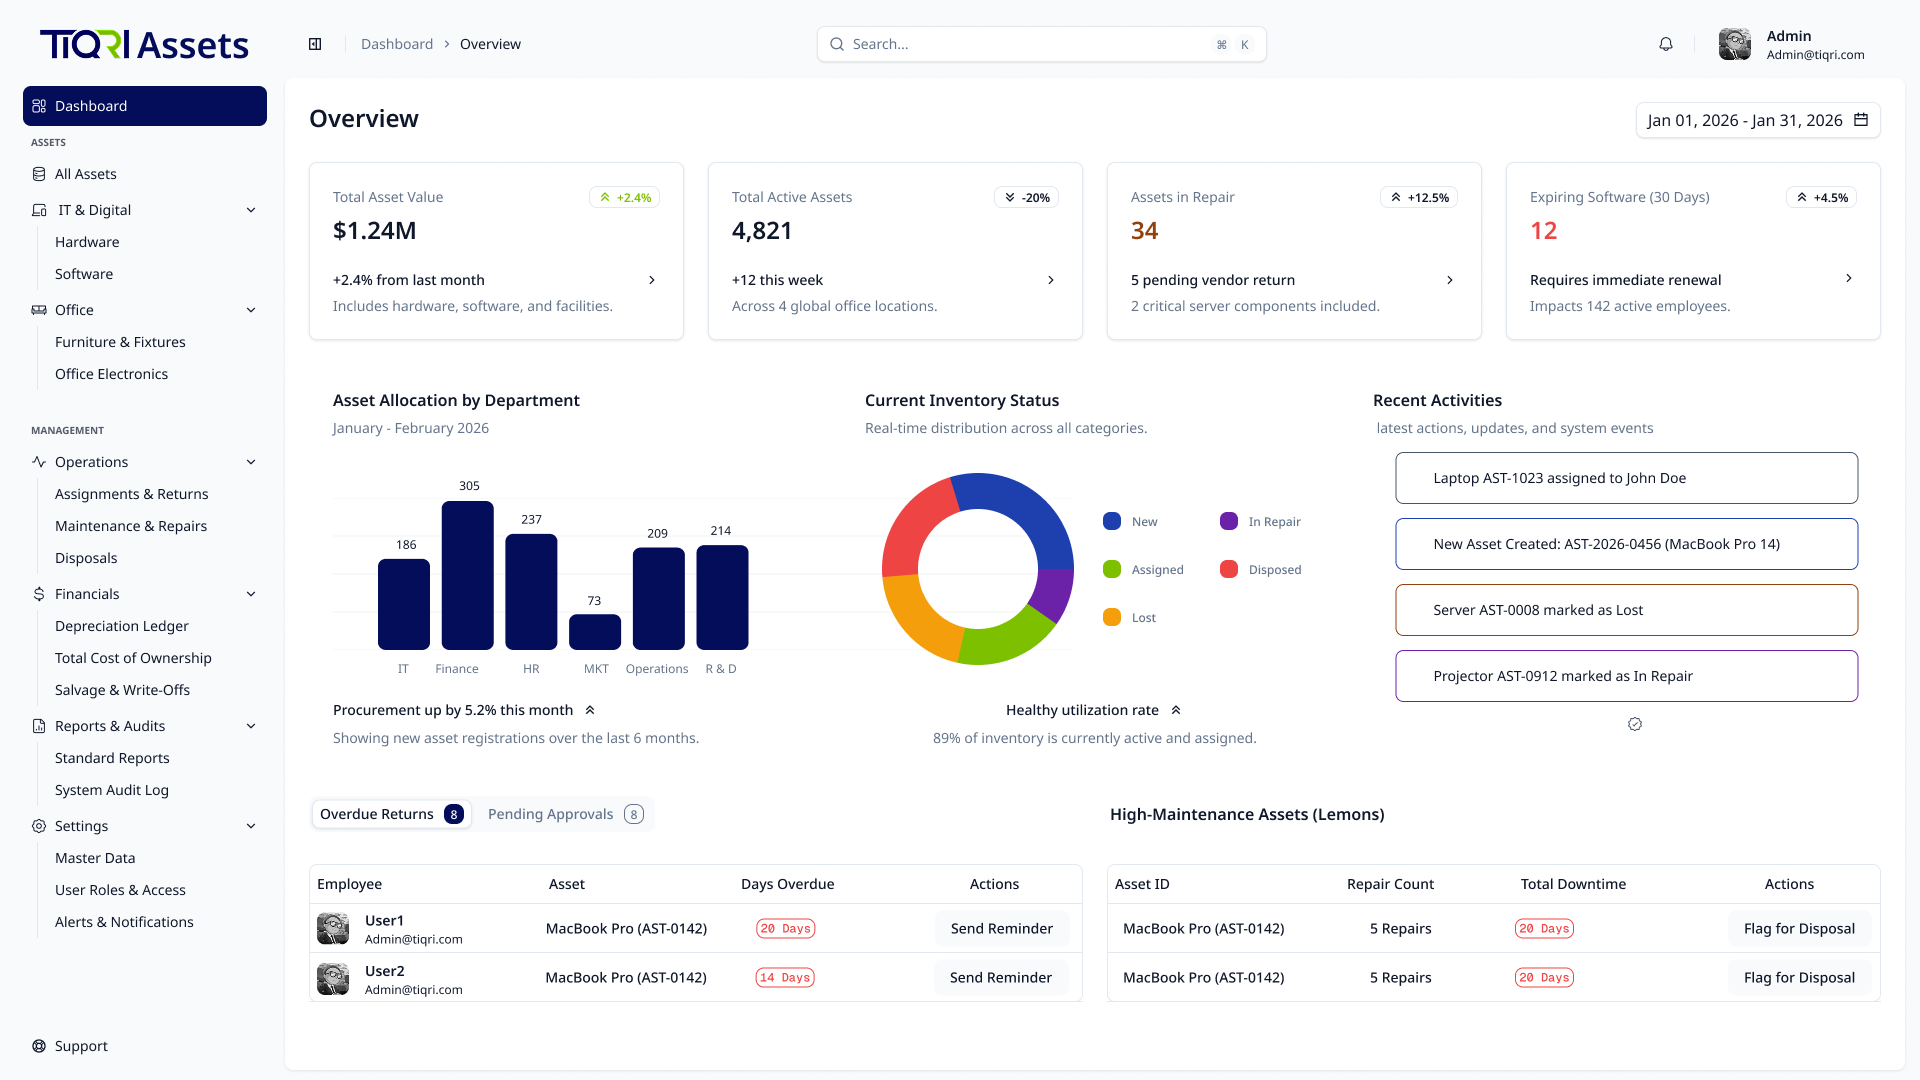
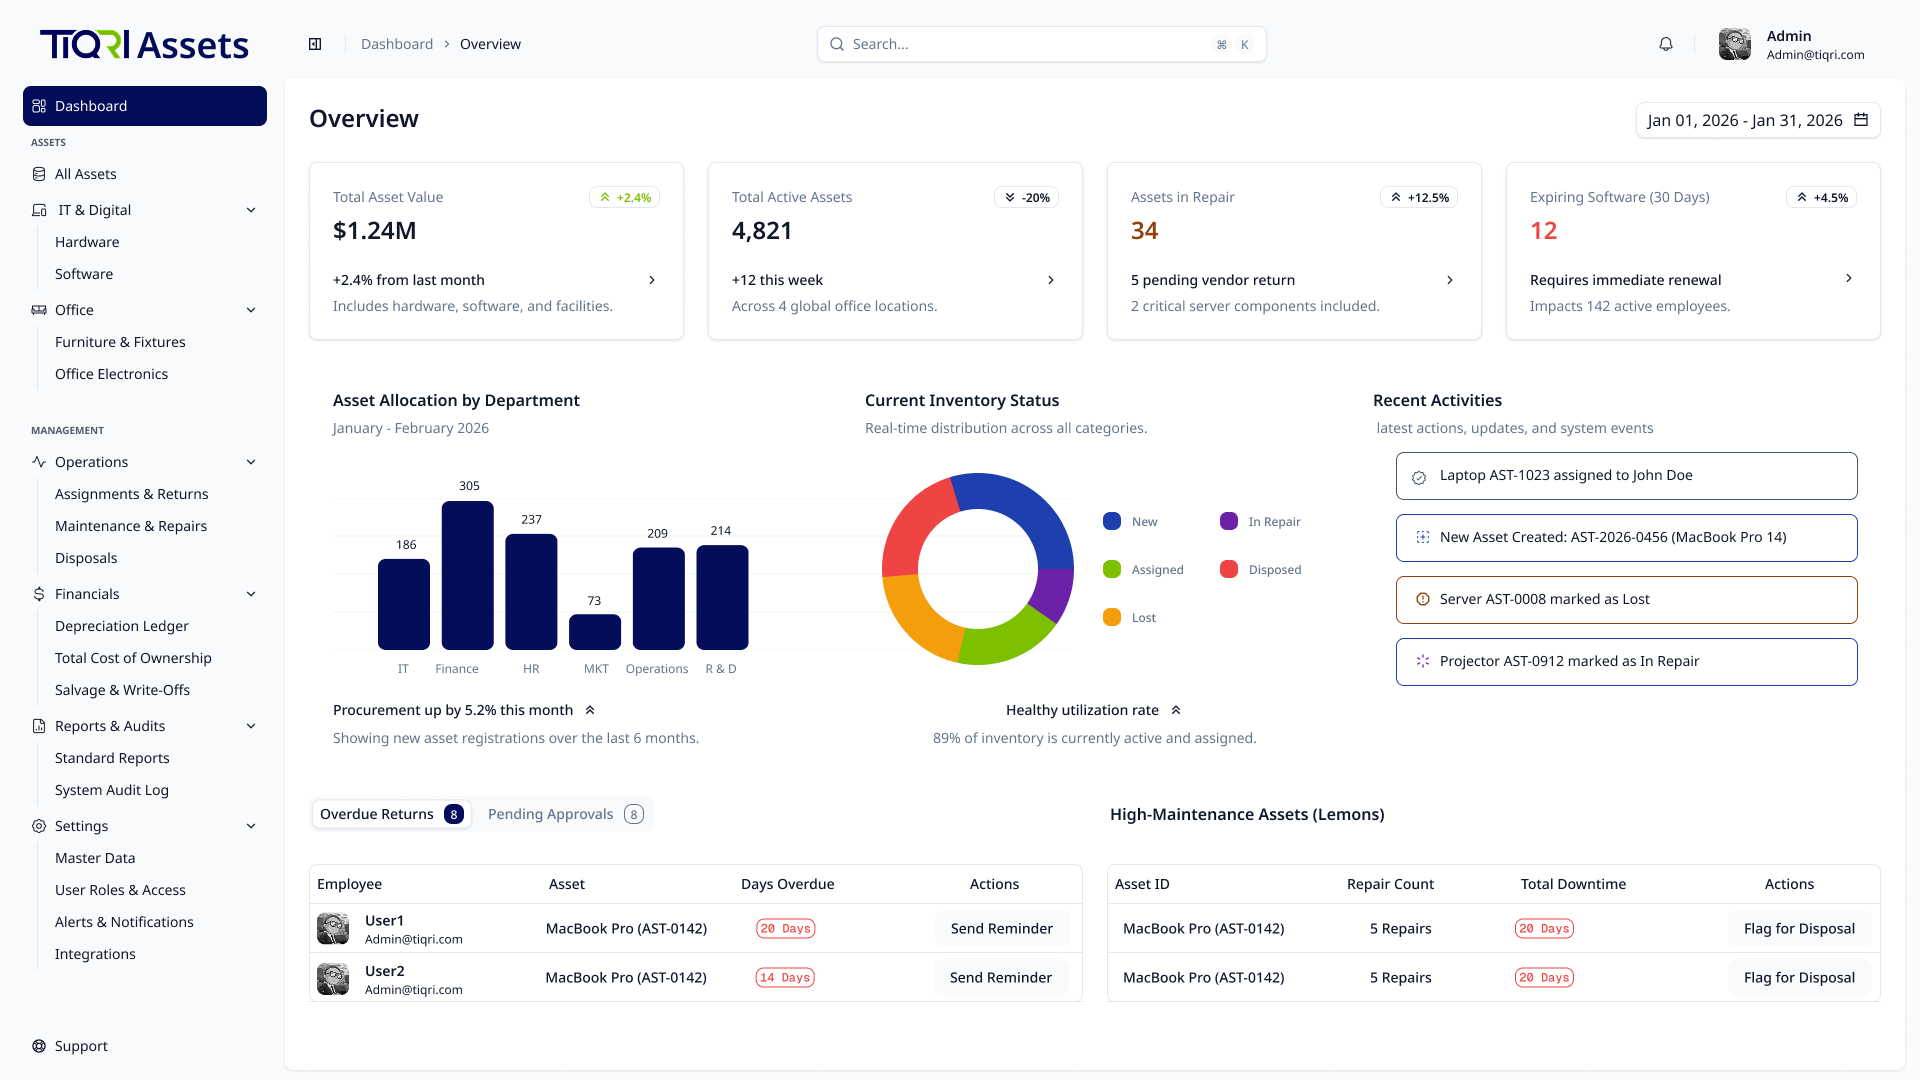
docs:made minor changes in financial-analytics-and-automation.md

Changed region(s): [[0.7188, 0.4278, 0.9688, 0.6417], [0.9375, 0.5806, 0.9688, 0.6111], [0.0312, 0.8556, 0.0625, 0.8861]]

diff --git a/docs/1_requirements/user-story-specs/05-financial-analytics-and-automation.md b/docs/1_requirements/user-story-specs/05-financial-analytics-and-automation.md
@@ -31,7 +31,6 @@ Data is useless if it's trapped. This epic unlocks the value of the ITAM system 
 
 ### 1.3 Out of scope/Limitations
 
-- **Custom Report Builder**: Users are limited to pre-defined standard reports; ad-hoc SQL queries are out of scope.
 - **Predictive AI**: Predictive maintenance analysis is out of scope.
 
 ### 1.4 Business Context
@@ -88,10 +87,10 @@ The primary interface providing immediate situational awareness of critical issu
   - **When** I click "Export to CSV"
   - **Then** a file downloads within 10 seconds containing all grid data.
   - **And** the system successfully handles exporting up to 50,000 rows without crashing.
-- **Scenario: Export to Excel**
+- **Scenario: Export to PDF**
   - **Given** I am viewing a generated report
-  - **When** I click "Export to Excel"
-  - **Then** a formatted `.xlsx` file downloads containing the report data with proper column headers and data types.
+  - **When** I click "Export to PDF"
+  - **Then** a formatted `.pdf` file downloads containing the report data with proper headings and structured layout.
 - **Scenario: HTML Report Preview**
   - **Given** I select a report type (e.g., "Inventory by Department")
   - **When** I click "Generate Report"
@@ -117,6 +116,11 @@ A highly secured sandbox containing financial ledgers that automate depreciation
 - **As a** Finance Director,
 - **I want to** access a dedicated, RBAC-secured Financials module with a Depreciation Ledger,
 - **So that** I can view the real-time "Current Book Value" and salvage values for corporate tax reporting.
+
+
+**Comment:**  
+The depreciation calculations in this module are currently based on project assumptions. Final validation with the Finance Department is required to confirm the actual calculation methods before completing the implementation.
+
 
 **Acceptance Criteria (Gherkin)**
 
